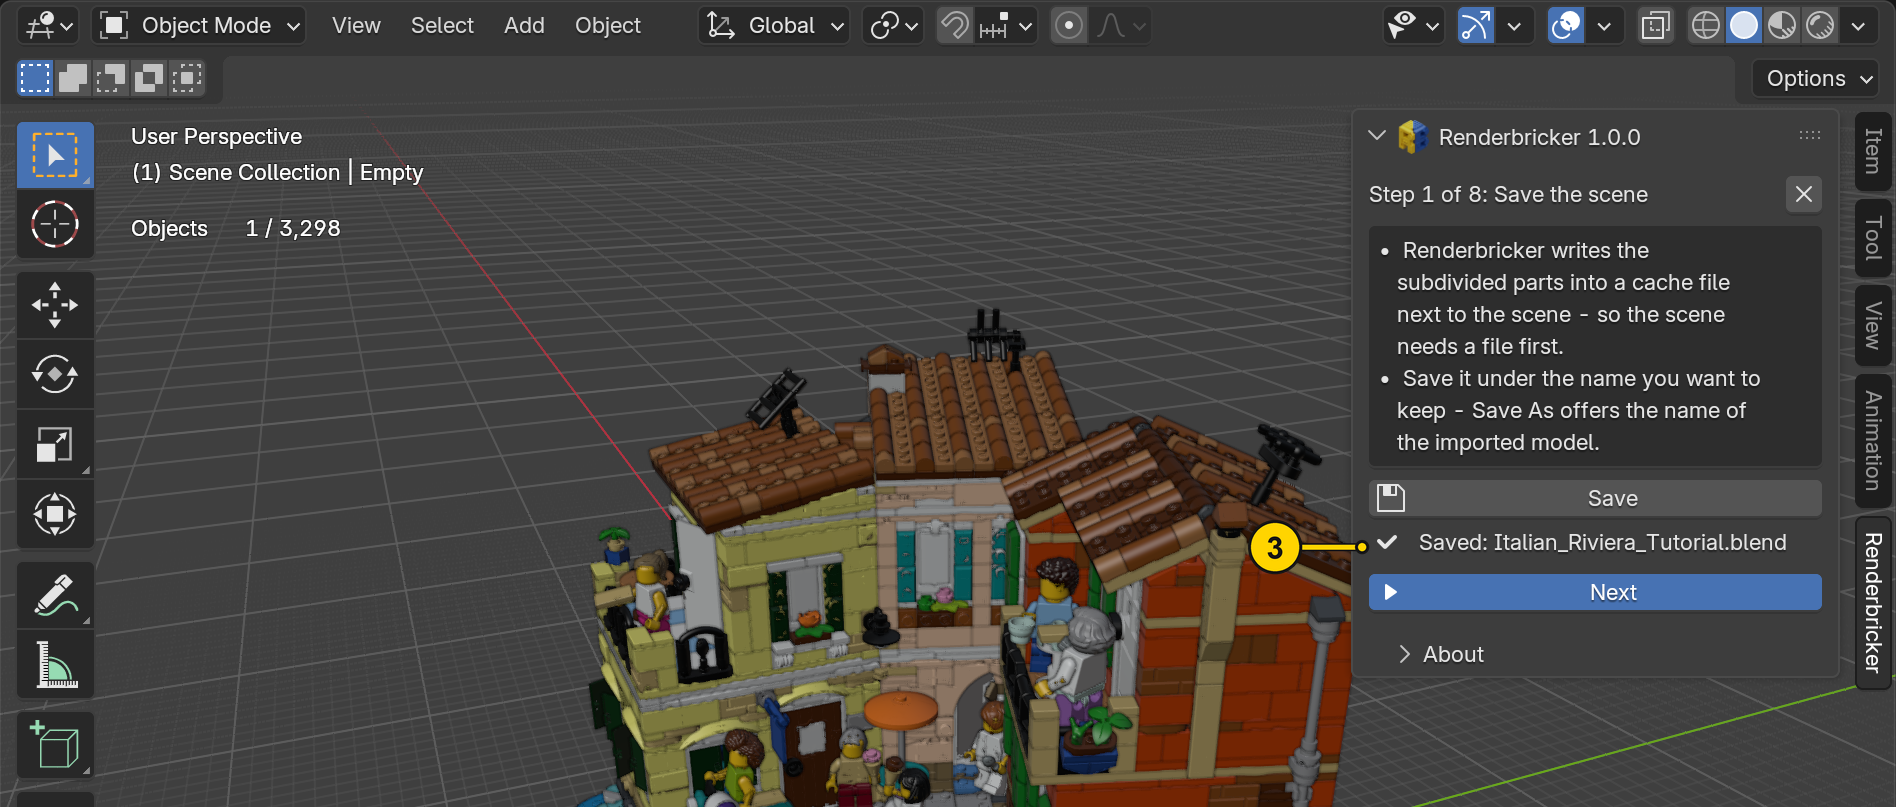
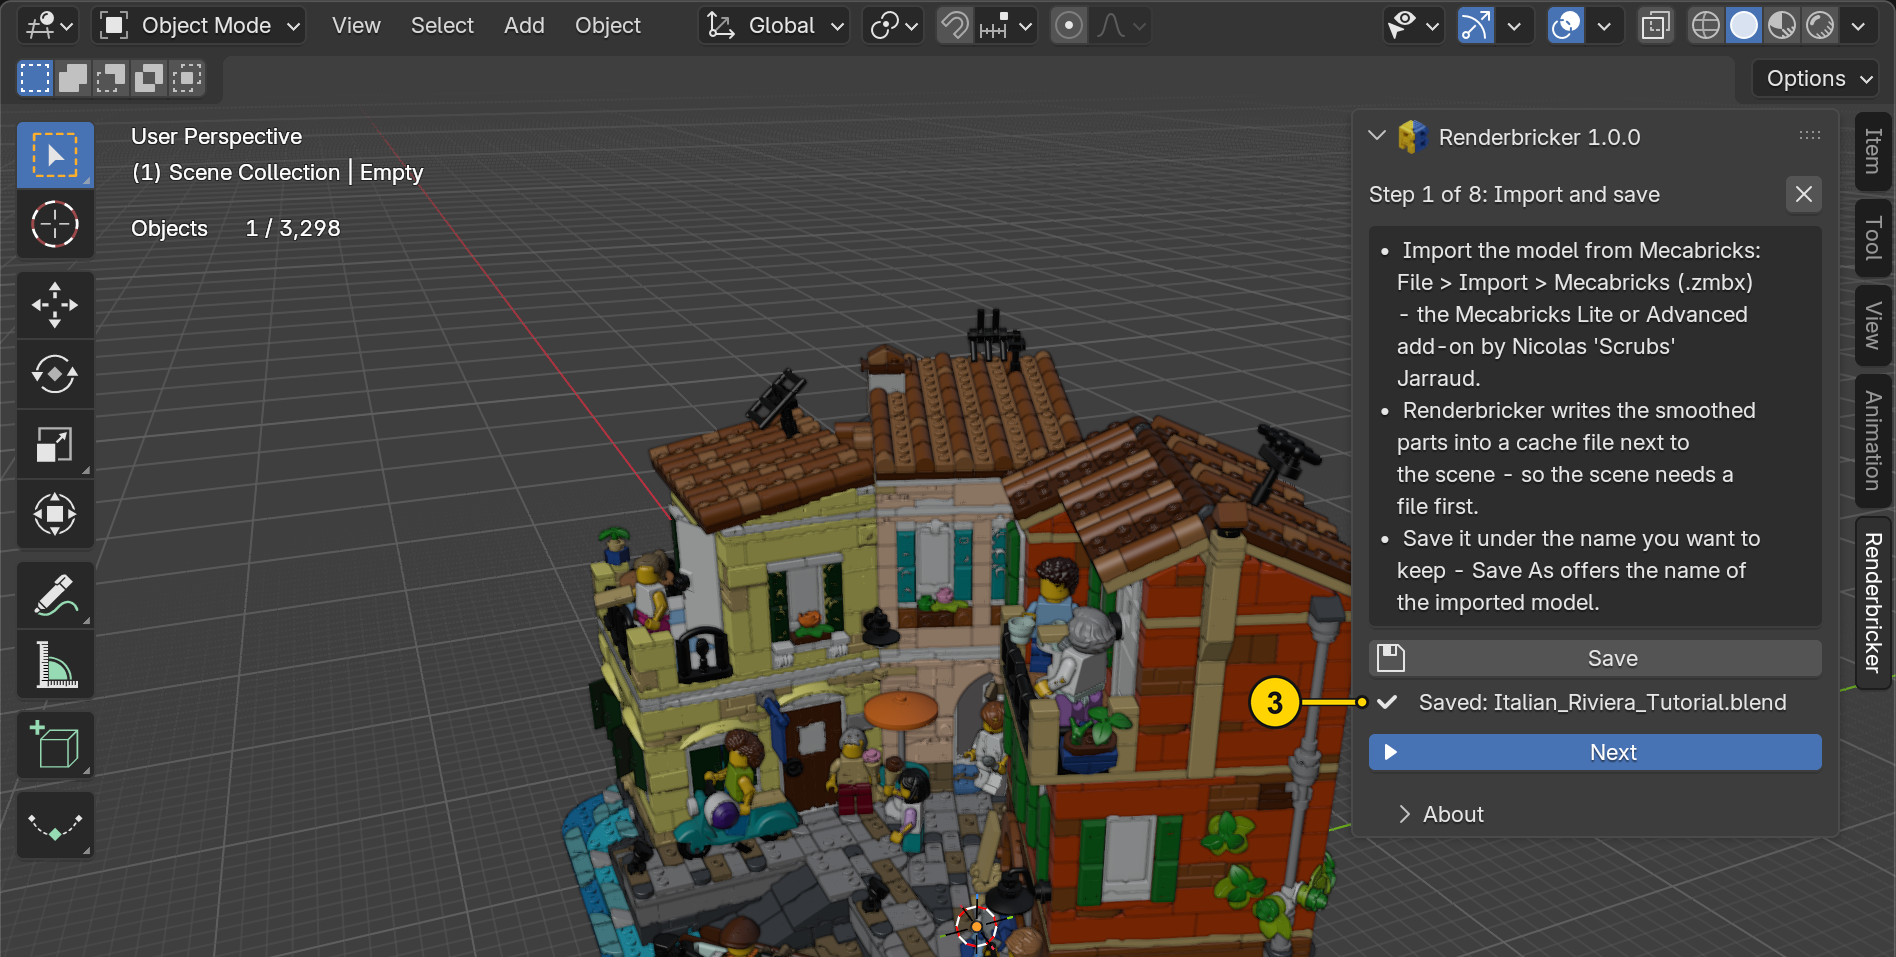
Start Guide in the order of the tutorial (Apply, compare, Check), step 1 Import and save with Mecabricks, shorter settings, Apply: up to date, the render camera's buttons
Claude-Session: https://claude.ai/code/session_01VSXh4cVLfm4J2gU6DRZHzJ

diff --git a/addon/renderbricker/__init__.py b/addon/renderbricker/__init__.py
@@ -2258,8 +2258,10 @@ def _g_next(L, context, s):
 
 
 GUIDE = (
-    ("Save the scene", _g_save, (
-        "Renderbricker writes the subdivided parts into a cache file next to the scene - so the scene "
+    ("Import and save", _g_save, (
+        "Import the model from Mecabricks: File > Import > Mecabricks (.zmbx) - the Mecabricks Lite or "
+        "Advanced add-on by Nicolas 'Scrubs' Jarraud.",
+        "Renderbricker writes the smoothed parts into a cache file next to the scene - so the scene "
         "needs a file first.",
         "Save it under the name you want to keep - Save As offers the name of the imported model.")),
     ("Choose the parts", _g_parts, (
@@ -2271,41 +2273,36 @@ GUIDE = (
         "marked collections are shown and rendered.",
         "Parts outside the choice stay as imported.")),
     ("Settings", _g_settings, (
+        "The defaults suit most scenes.",
         "Variant A keeps the shading of the Mecabricks import (soft logos on the studs); B computes it "
         "from the smoothed surface (crisper logos).",
         "Viewport level: how smooth the parts look while you work. 1 keeps the viewport fast.",
         "Render level: how smooth they are in the render. 2 is enough even for close-ups.",
         "Use several Blender processes: larger scenes are converted by several Blenders in the background "
         "at the same time - how many depends on the processor and the free memory.",
-        "Low Memory: how these Blenders share the parts. Off: each gets its share at once - the fastest "
-        "way. On: the parts are cut into small segments, each done by a Blender that ends afterwards and "
-        "frees its memory - slower, but safe on computers with 16 or 32 GB or with very large parts. Auto "
-        "(default) switches it on only when a single part is so large that otherwise just a few Blenders "
-        "could run.",
-        "Cache file: the smoothed parts are stored in <scene>_rbcache.blend next to the scene, so the "
-        "scene file stays small.",
+        "Low Memory: only for very large parts or little memory (16 or 32 GB) - Auto decides.",
+        "Cache file: the copies are stored in <scene>_rbcache.blend next to the scene, so the scene file "
+        "stays small.",
         "Log file: the results of Apply, Check and Convert headless are also written into "
-        "<scene>_Renderbricker.log, with the full list of problems; the icon next to it opens it.",
-
-        "The defaults suit most scenes.")),
+        "<scene>_Renderbricker.log, with the full list of problems; the icon next to it opens it.")),
     ("Apply", _g_apply, (
-        "Apply decides for every edge of every part whether the real brick is sharp or round there, "
+        "Apply decides for every edge of every part whether the real part is sharp or round there, "
         "and sets a crease on the sharp ones.",
-        "It then bakes the smoothed result into a copy of each part mesh; all bricks of the same kind "
-        "share that copy.",
+        "It then bakes the smoothed result into a copy of each part; all links of the part share that copy.",
         "The imported mesh stays unchanged in the file - you can always go back.",
-        "Esc cancels. With the cache file on, the scene is saved at the end.")),
+        "Esc cancels. With the cache file on, the scene is saved at the end.",
+        "Afterwards the button reads Apply: up to date; Shift+click converts all parts again.")),
+    ("Compare with the import", _g_compare, (
+        "The button switches every link between the smoothed copy (ON) and the imported mesh (OFF).",
+        "Switch OFF and back ON: edges that are sharp on the real part stay sharp, round shapes like studs "
+        "and tires turn round.")),
     ("Check", _g_check, (
         "Check looks for folded faces and gaps along seams in the smoothed parts.",
         "The arrow next to a listed part selects it and frames it in the viewport.",
         "Folds can come from faces that are already broken in the import - render a close-up before "
         "you worry.")),
-    ("Compare with the import", _g_compare, (
-        "The button switches every brick between the smoothed copy (ON) and the imported mesh (OFF).",
-        "Switch OFF and back ON: sharp edges of the real part stay sharp, round shapes like studs and "
-        "tires turn round.")),
     ("Render", _g_render, (
-        "F12 (image) and Ctrl+F12 (animation) switch the bricks to the render level while rendering "
+        "F12 (image) and Ctrl+F12 (animation) switch the parts to the render level while rendering "
         "and back to the viewport level afterwards.",
         "The Render menu has the same: Render Image / Animation (Renderbricker levels).",
         "Render camera ON: the camera \"Renderbricks\" frames the whole model, a world \"Renderbricks Sky\" "
@@ -2313,7 +2310,9 @@ GUIDE = (
         "render settings back - nothing is overwritten.",
         "The camera icon frames the model again, e.g. after adding parts.",
         "Front, Right, Back, Left, Top, Bottom turn the camera around the model: Front is the view of the "
-        "render setup, the others go round in 90° steps or look from above and below.")),
+        "render setup, the others go round in 90° steps or look from above and below.",
+        "Below: the sun fixed or turning with the camera, Transparent, Resolution Scale, the samples, "
+        "Render (F12) and All views (each view into its own slot).")),
     ("Done - what next", _g_next, (
         "Save As under another name or folder: the panel then offers Move cache here or Copy cache "
         "here, so the new file gets its cache.",

diff --git a/CHANGELOG.md b/CHANGELOG.md
@@ -13,7 +13,7 @@ First release – in preparation; improvements are added here until it is publis
 - One subdivided copy per part, shared by all its links; separate viewport and render levels, F12 / Ctrl+F12 render with the render level.
 - Optional cache file next to the scene (copies linked as library overrides), with Move/Copy cache after Save As and switching the cache on and off; the panel shows the cache file on a line of its own and Move/Copy one below the other, readable at the default sidebar width.
 - Apply and headless conversion with several Blender processes (as many as the processor and the free memory allow, estimated per scene; each process loads only its own parts, not the whole scene; option Low Memory: Auto, Off or On – On cuts the parts into small segments, each baked by a Blender that ends afterwards and frees its memory, for little memory or very large parts; Auto uses it only when a single part would otherwise leave room for few processes); progress bars for all long steps; the scene is saved after the cache was written.
-- Start Guide: a step-by-step guide through the workflow (save, choose the parts, settings, Apply, Check, compare, render, what next), every step explained in bullet points, with its own controls and a status line; the next action is highlighted.
+- Start Guide: a step-by-step guide through the workflow (import and save, choose the parts, settings, Apply, compare, Check, render, what next), every step explained in bullet points, with its own controls and a status line; the next action is highlighted.
 - Raising a subdivision level above 2 asks first (Cancel keeps the old level) and the panel shows a warning while it is above 2.
 - Convert headless on a scene that was already converted no longer stands still: the previous conversion is left out of the working copy (Italian Riviera: 1 GB instead of 3.9 GB per background Blender), and a background Blender short of memory stops and hands its remaining parts back instead of waiting for the others; the terminal says so.
 - Render camera ON/OFF: ON makes the camera "Renderbricks" (framing all visible parts to fill the picture) and a world "Renderbricks Sky" (Physical Sky) of its own active and takes over the Renderbricks render settings; OFF brings back the scene's own camera, world and render settings, so a scene set up before is never overwritten. The camera button frames the model again; six view buttons (Front, Right, Back, Left, Top, Bottom) turn the camera around the model in 90° steps or look straight from above and below (square to the model, longer side across), framed each time; the picture is landscape 16:9 or, for a model taller than wide, portrait 9:16; the 3D viewport looks through the camera while it is on; sample buttons Low 128, Medium 256, Good 512, High 1024 and a Render button. Every view renders into a slot of its own in the Render window (Slot 1 Front, 2 Right, 3 Back, 4 Left, 5 Top, 6 Bottom, named after the views); All views renders the six one after the other, Esc in the Render window stops the chain. For Bottom the sky is mirrored vertically (rendered once as a panorama), so the sun lights the underside; a sun button keeps the sun fixed (default) or turns it with the camera. ON starts on Low (128 samples) and shows the Output tab of the Properties editor; buttons Transparent (Film Transparent with Transparent Glass) and Resolution Scale. ON again brings back the settings of the last OFF; Shift+click on ON starts fresh.

diff --git a/docs/TUTORIAL.md b/docs/TUTORIAL.md
@@ -96,7 +96,7 @@ into a cache file next to the scene – so the scene needs a file first.
 > **Start Guide** (2) leads through the same steps inside Blender, one at a time, and shows when a
 > step is done – here with the saved file name (3):
 >
-> ![Guide step 1 of 8: Save the scene, with the saved file name (3)](images/tutorial/T02b_guide_step1.webp)
+> ![Guide step 1 of 8: Import and save, with the saved file name (3)](images/tutorial/T02b_guide_step1.webp)
 
 ---
 
